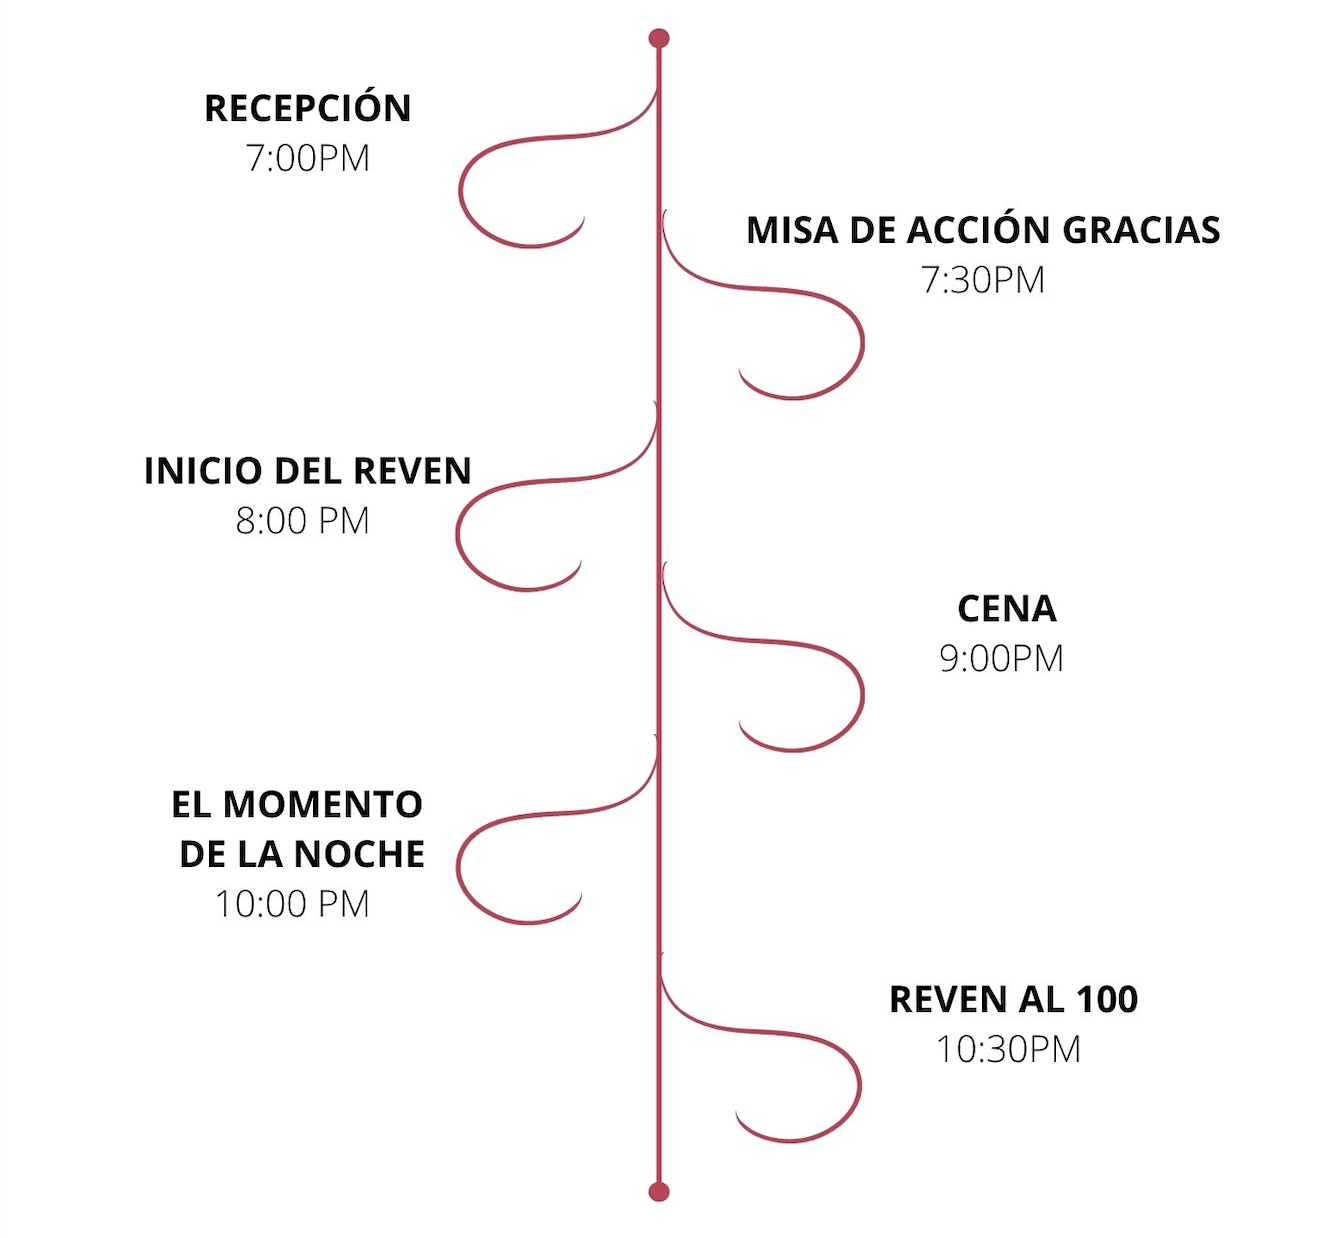
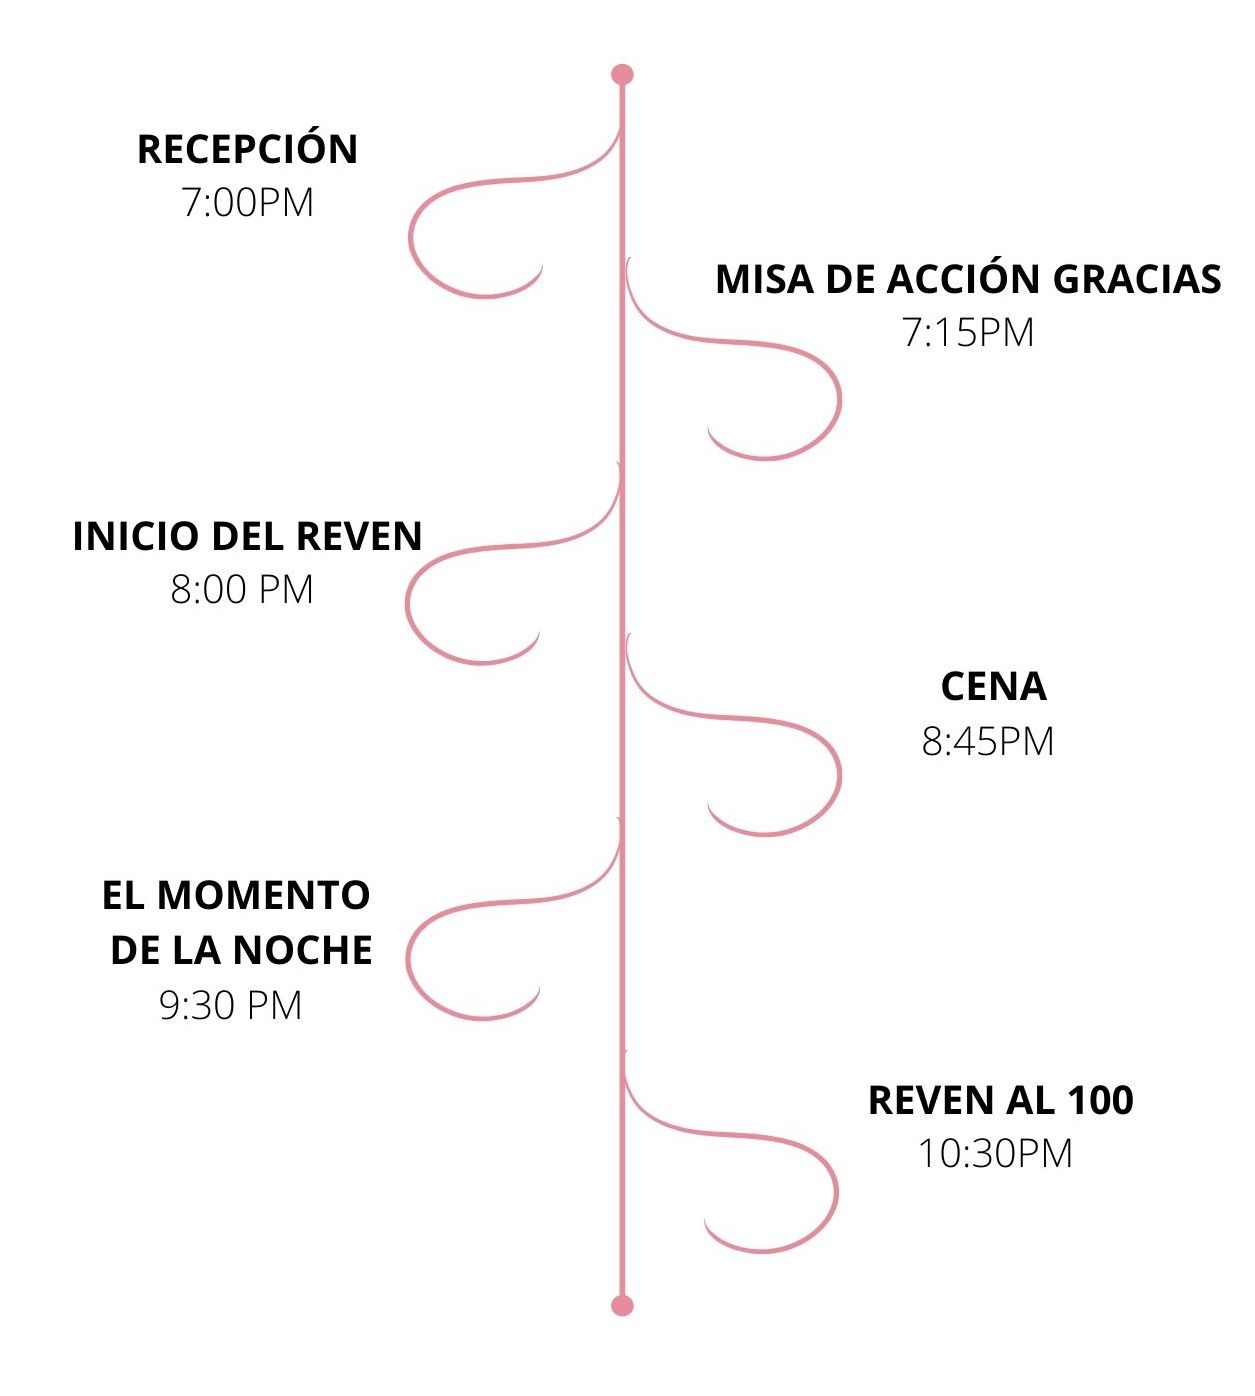
cambios finales

diff --git a/src/MesaRegalos.js b/src/MesaRegalos.js
@@ -10,10 +10,12 @@ function MesaRegalos() {
             <h4 className="fs-5 fw-semibold pb-4"> PERO SI DESEAS AGREGAR UN DETALLE TE DEJO UNAS IDEAS</h4>
         </Col>
         <Col className="text-center">
-            <h3 className='py-4 mesa-regalos'><strong>mesa de regalos liverpool</strong></h3>
+            <h3 className='py-4 mesa-regalos'>mesa de regalos liverpool</h3>
         </Col>
-        <Col className="fs-1 fw-lighter text-center py-4">
-            NO. DE EVENTO: 50882319
+        <Col className="fs-1 fw-bolder text-center py-4">
+            
+            NO. DE EVENTO: 50882319 <br/>
+            <a className='text-decoration-none fs-5 fw-light text-light mesa'  href='https://mesaderegalos.liverpool.com.mx/milistaderegalos/50882319?_ga=2.152722233.1819738152.1652495999-37385659.1652495999'>👉 Echale un ojo dando click aqui 👈 </a>
         </Col>
       </Row>
     </Container>

diff --git a/src/Body.js b/src/Body.js
@@ -22,7 +22,7 @@ const DateTimeDisplay = ({ value, type, isDanger }) => {
       <Row className="justify-content-center text-center m-md-4 mb-md-0">
         <Col className="ceremonia fs-1 fw-bold text-light d-flex flex-column justify-content-center" md="12" lg="5">
             <p className='pb-3'>CEREMONIA DE <br/> AGRADECIMIENTO</p>
-            <p>7:30 PM</p>
+            <p>7:15 PM</p>
         </Col>
         <Col className="reven fs-1 fw-bold text-light d-flex flex-column justify-content-center" md="12" lg="5">
             <p className='pb-3'>INICIO DEL REVEN</p>

diff --git a/src/App.css b/src/App.css
@@ -49,7 +49,7 @@
 .mesa-regalos{
   font-size: 5rem;
   color: white;
-  font-weight: 600;
+  font-weight: 400;
   font-family: 'Babylonica', cursive;
 }
 
